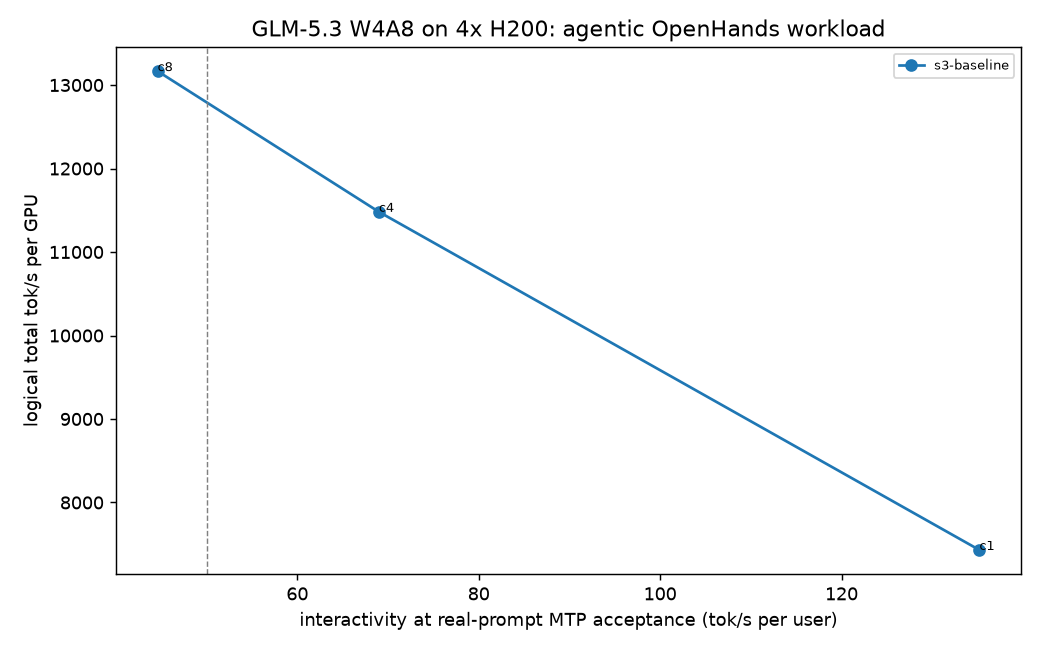
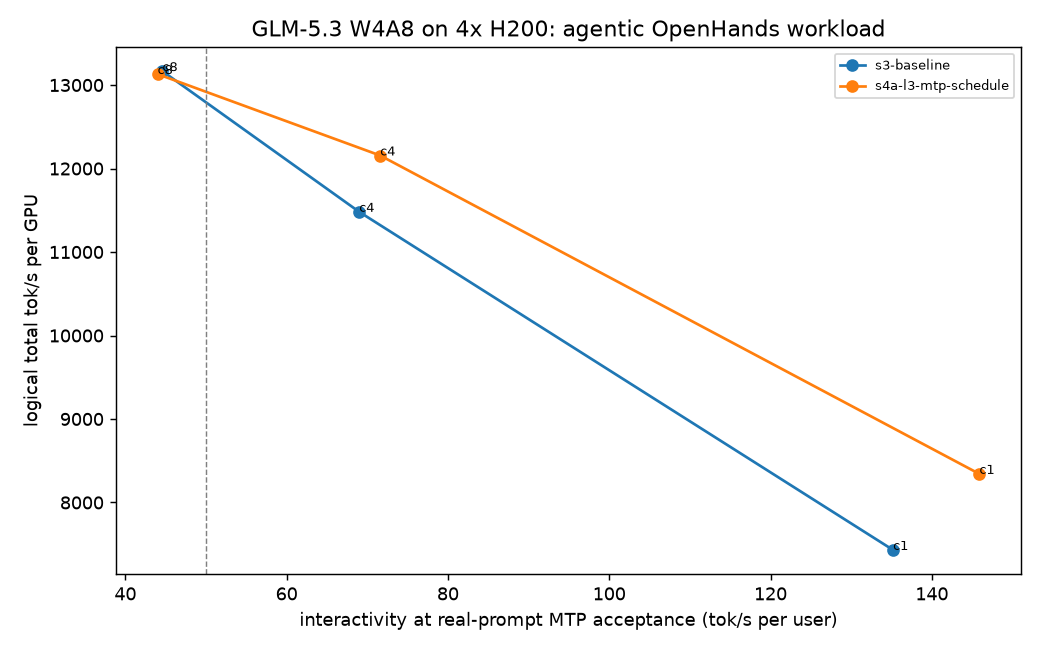
Rung L3 (MTP schedule) reverted: +8% c=1, +4% c=4, -7.4% KV; queue L5p (16K chunks + prefill profile) and L2 (offload, c=8 and capped c=16)

diff --git a/results/REPORT_DATA.md b/results/REPORT_DATA.md
@@ -11,12 +11,16 @@ interactivity is the raw 1000/TPOT p50 (per-request median); step_ms = TPOT p50 
 | s3-baseline | 1 | 52 | 0 | 428.59 | 484.84 | 12910.29 | 5.74 | 5.93 | 23.11 | 29.25 | 174.2 | 21.8 | 2.95 | 135.2 | 130.8 | 81.6755 | 7431 | 0.9175 | 3.802 | 0.0 | True | 21.16 | 71.97 |
 | s3-baseline | 4 | 104 | 0 | 503.65 | 745.37 | 39379.9 | 11.4 | 19.92 | 33.68 | 1412.99 | 87.7 | 42.8 | 2.95 | 69.0 | 39.5 | 126.3797 | 11481 | 0.9176 | 3.752 | 0.0 | True | 5.29 | 46.51 |
 | s3-baseline | 8 | 208 | 0 | 576.89 | 1108.0 | 77281.53 | 17.51 | 38.57 | 43.21 | 1421.22 | 57.1 | 66.2 | 2.95 | 44.6 | 20.2 | 144.9076 | 13166 | 0.9176 | 3.78 | 0.0 | False |  | 40.56 |
+| s4a-l3-mtp-schedule | 1 | 52 | 0 | 396.77 | 468.25 | 12966.72 | 4.48 | 4.7 | 26.31 | 27.84 | 223.2 | 24.3 | 3.54 | 145.9 | 139.1 | 91.6837 | 8342 | 0.9178 | 5.419 | 0.0 | True | 21.16 | 64.11 |
+| s4a-l3-mtp-schedule | 4 | 104 | 0 | 569.25 | 1164.9 | 39456.65 | 9.42 | 17.05 | 39.96 | 1419.99 | 106.2 | 49.5 | 3.54 | 71.6 | 39.5 | 133.7617 | 12156 | 0.9177 | 5.255 | 0.0 | True | 5.29 | 43.94 |
+| s4a-l3-mtp-schedule | 8 | 208 | 0 | 573.46 | 1411.02 | 77454.93 | 17.75 | 37.92 | 43.97 | 1423.85 | 56.3 | 67.0 | 2.95 | 44.0 | 20.6 | 144.5272 | 13131 | 0.9176 | 3.777 | 0.0 | False |  | 40.67 |
 
 ## Max sessions at SLO per step
 | step | max_sessions_at_slo | usd_per_session_hr |
 |---|---|---|
 | r01-rehearsal | 4 | 5.29 |
 | s3-baseline | 4 | 5.29 |
+| s4a-l3-mtp-schedule | 4 | 5.29 |
 
 ## Reference shape (random 8192/1024, vllm bench serve)
 | step | c | n | failed | ttft_p50_ms | ttft_p90_ms | tpot_p50_ms | tpot_p90_ms | interactivity | out_tok_s | total_tok_s_per_gpu | goodput_rps | mtp_al | usd_per_m_out |
@@ -39,8 +43,14 @@ interactivity is the raw 1000/TPOT p50 (per-request median); step_ms = TPOT p50 
 | s2-quality | niah.json | 130578 tok d=0.1 found=True ttft=23.36s prefill=5591 tok/s decode=120.0 tok/s; 130543 tok d=0.5 found=True ttft=23.29s prefill=5605 tok/s decode=156.9 tok/s; 130574 tok d=0.9 found=True ttft=23.27s prefill=5611 tok/s decode=147.3 tok/s; 204350 tok d=0.1 found=True ttft=37.32s prefill=5475 tok/s decode=137.8 tok/s; 204296 tok d=0.5 found=True ttft=37.23s prefill=5487 tok/s decode=130.8 tok/s; 204325 tok d=0.9 found=True ttft=37.28s prefill=5481 tok/s decode=130.5 tok/s |
 | s2-quality | toolcalls.json | 37/46 gate=False info={'info_empty_props_oneof_glm5_169': False, 'info_empty_props_oneof_glm5_169/stream': False} |
 | s2b-toolcalls-typed | toolcalls.json | 48/48 gate=True info={'info_untyped_json_null': False, 'info_untyped_json_null/stream': False, 'info_untyped_json_number': False, 'info_untyped_json_number/stream': False, 'info_untyped_json_bool': False, 'info_untyped_json_bool/stream': False, 'info_untyped_json_nested': False, 'info_untyped_json_nested/stream': False, 'info_markers_in_prose_vllm_64326': False, 'info_markers_in_prose_vllm_64326/stream': True, 'info_empty_props_oneof_glm5_169': False, 'info_empty_props_oneof_glm5_169/stream': False} |
+| s4a-l3-mtp-schedule | apply.json | restart to ready 297 s |
+| s4a-l3-mtp-schedule | gsm8k.json | acc 0.985 n=200 gate=True tokens=133 |
+| s4a-l3-mtp-schedule | mtp_al.json | AL 3.5424507334419912 rate 50.84901466883983 tpot 10.33 ms |
+| s4a-l3-mtp-schedule | niah.json | 130580 tok d=0.5 found=True ttft=23.36s prefill=5589 tok/s decode=10257.1 tok/s |
+| s4a-l3-mtp-schedule | toolcalls.json | 48/48 gate=True info={'info_untyped_json_null': False, 'info_untyped_json_null/stream': False, 'info_untyped_json_number': False, 'info_untyped_json_number/stream': False, 'info_untyped_json_bool': False, 'info_untyped_json_bool/stream': False, 'info_untyped_json_nested': False, 'info_untyped_json_nested/stream': False, 'info_markers_in_prose_vllm_64326': False, 'info_markers_in_prose_vllm_64326/stream': False, 'info_empty_props_oneof_glm5_169': False, 'info_empty_props_oneof_glm5_169/stream': False} |
 | r01-rehearsal | boot_facts | GPU KV cache size: 362,096 tokens, Maximum concurrency for 32,768 tokens per request: 11.05x |
 | s1e-apply-b2 | boot_facts | GPU KV cache size: 895,232 tokens, Maximum concurrency for 262,144 tokens per request: 3.42x |
 | s1f-apply-b4 | boot_facts | GPU KV cache size: 1,042,944 tokens, Maximum concurrency for 262,144 tokens per request: 3.98x |
+| s4a-l3-mtp-schedule | boot_facts | GPU KV cache size: 965,376 tokens, Maximum concurrency for 262,144 tokens per request: 3.68x |
 
 ![pareto](pareto.png)

diff --git a/results/FINDINGS.md b/results/FINDINGS.md
@@ -169,3 +169,34 @@ Random token IDs give MTP almost nothing to predict (acceptance length 1.37-1.40
 - **L2 (CPU KV offload):** removes the working-set cliff; c=16 runs only time-capped.
 
 **Spend:** balance $153.76 at 21:30Z ($46.24 spent; about 7.3 pod-hours left).
+
+## Step 4, rung L3: MTP per-batch-size schedule (21:35-21:54Z): REVERTED
+
+**Config:** `deploy/configs/L3-mtp-schedule.args`, which is B4 with `num_speculative_tokens_per_batch_size` [[1,4,5],[5,16,3],[17,1024,1]]. That gives 5 drafts at batch sizes up to 4 and 3 drafts from 5 to 16.
+
+**Restart and quality:**
+- Restart to ready took 297 s.
+- The spot gate passed: tool calls 48/48, GSM8K-200 98.5%, 128K needle found.
+- KV capacity is **965,376 tokens**, 7.4% below B4's 1,042,944, because deeper drafts need more buffers.
+
+| | c=1 | c=4 | c=8 (3 drafts in both) |
+|---|---|---|---|
+| Real-prompt AL (SPEED-Bench coding; L3 measured at c=4) | 2.95 to **3.54** (+20%) | 2.95 to 3.54 | 2.95 |
+| Engine step (ITL p50) | 23.1 to 26.3 ms | 33.7 to 40.0 ms | 43.2 to 44.0 ms |
+| Per-user tok/s at real AL, median | 135 to **146** (+8%) | 69.0 to **71.6** (+4%) | 44.6 to 44.0 |
+| Per-user tok/s, mean | 131 to 139 | 39.5 to 39.5 | 20.2 to 20.6 |
+| TTFT p50 | 429 to 397 ms | 504 to 569 ms | 577 to 573 ms |
+| Time per 220-token turn at real AL (TTFT + 219 x step / AL) | 2.05 to 1.90 s (-7%) | 3.68 to 3.63 s (-1%) | unchanged |
+
+**Why the gain is small:**
+- Verifying 6 tokens instead of 4 makes each step 11-16% slower, which eats most of the 20% acceptance gain.
+- At c=4 the mean is set by other sessions' prefill stalls, which more drafts do not touch.
+- The vLLM #65312 result (a schedule beats fixed k=5 at c=256) is about large batches. In our SLO region the schedule only adds depth.
+
+**Decision: revert to B4 (3 drafts).**
+- **What L3 offers:** +8% single-user decode and +4% at the SLO point.
+- **What it costs:** 7.4% KV, which moves the working-set cliff from about 12.3 to about 11.4 sessions; 13% higher TTFT p50 at c=4; and a three-band schedule to maintain.
+- **The result:** max sessions at SLO is unchanged at 4.
+- **When to revisit:** a workload dominated by long single-user generations (writing whole files), where the +8% applies to every token.
+
+**Lesson for the eval design:** acceptance must be measured at the concurrency that selects the draft count. A per-batch-size schedule measured at c=8 would have reported B4's 3-draft AL, so this rung measured it at c=4.
